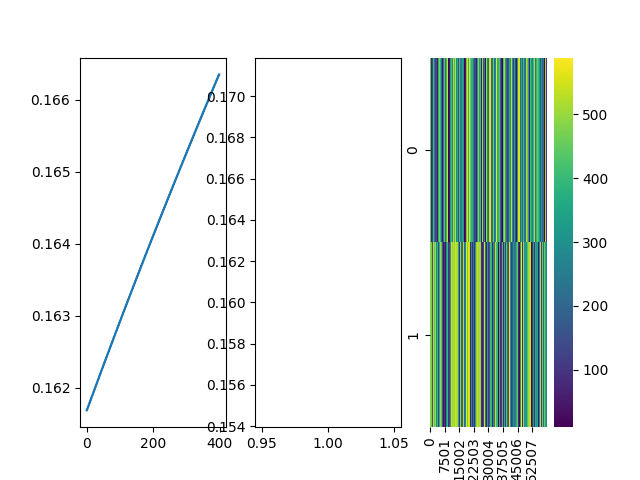
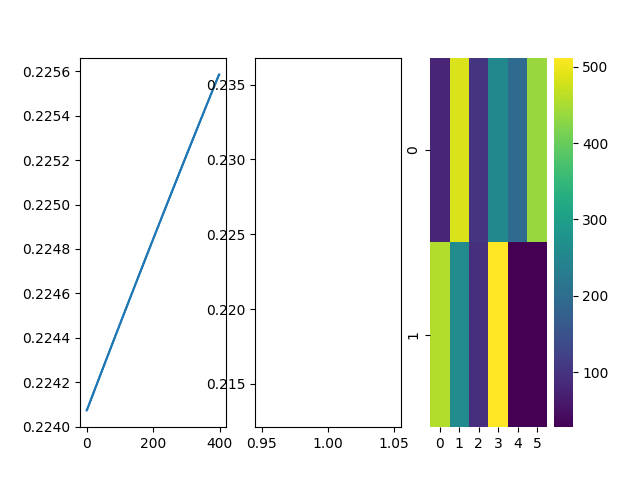
Static objects implemented, no collision yet and buggy drawing in animation, but showing as rotated. Will have to fix rotation seeming to be fixed at a certain value, illegal states being drawn and issues with sizes of statobjs. Animation also turns blank for certain seeds.

diff --git a/SNRLEnvironment/batching.py b/SNRLEnvironment/batching.py
@@ -15,28 +15,70 @@ def create_env(randint, objrad):
     #unfortunately can't parallelise adding elements to array (or even pytrees)
     return states #returned states is objnum + 2 * [x,y]
 @jax.jit
-def create_statobj(objsizes, rotations, key):
-    jax.random.uniform(key,minval=limits[0]+,maxval=40)
-    objsizes
+def create_centres(objsize, key, limits,statnum):
+    centres = jax.random.uniform(key,shape=(statnum,2),minval=limits[0]+objsize,maxval=limits[1]+objsize)
+    return centres
+    
+@jax.jit
+def return_vertices(centre,objsize,rotation):
+    jax.debug.print("{x} is objsize",x=objsize)
+    theta = rotation * (jnp.pi/180)
+    initvert = ((centre[0] - objsize[0], centre[1] - objsize[1]),
+                (centre[0] + objsize[0], centre[1] - objsize[1]),
+                (centre[0] - objsize[0], centre[1] + objsize[1]),
+                (centre[0] + objsize[0], centre[1] + objsize[1]))
+    #rotate shape, theta is angle in RADIANS
+    newvertices = []
+    dists = []
+    for vertex in initvert:
+        newx = (((centre[0] - vertex[0]) * jnp.cos(theta)) - ((centre[1] - vertex[1]) * jnp.sin(theta)))+ centre[0]
+        newy = (((centre[1] - vertex[1]) * jnp.sin(theta)) + ((centre[0] - vertex[0]) * jnp.cos(theta)) + centre[1])
+        a = centre[0]-vertex[0]
+        b = centre[1]-vertex[1]
+        dists.append([((centre[0] - vertex[0]) * jnp.cos(theta)),((centre[1] - vertex[1]) * jnp.sin(theta))])
+        #distance should be signed?? if it is it can transform vertex to rotate
+        newvertices.append([newx,newy])
+    vertices=jnp.array(newvertices)
+    print("my shape ", jnp.array(dists).shape)
+    #the y is the same for top left and top right, top left should decrease and top right should increase?
+    jax.debug.print("{x} is init, {y} is rotated", x= initvert, y=newvertices)
+    return vertices, jnp.array(dists)
 
 @jax.jit
-def return_states(randints,objrad, objsizes, rotations,centres, limits):
+def create_vertices(rotations, centres, objsizes):
+    #vertices are statobjnum in shape
+    print(centres.shape,objsizes.shape,rotations.shape)
+    vertices=[]
+    vertices, dists = jax.vmap(return_vertices)(centres,objsizes,rotations)#statobjnum shape
+    return vertices, dists
+@jax.jit
+def return_statobjs(vertices, centres):
+    return jax.vmap(lambda c, v :jnp.array([v[0],v[1],v[2],v[3],c]))(centres,vertices)
+@jax.jit
+def return_states(randints,objrad, objsizes, rotations, limits, centres):
     #rotation will act as a multiplier on the value of the vertices, they will increment in the y by the inverse of the x
-    centres = jax.vmap(create_statobj, in_axes=(0,0,None))(objsizes,rotations,key)
-    vertices = jax.vmap(create_vertices)(rotations,centres,objsizes)
-    envbatch = jax.vmap(create_env,in_axes=(0,None))(randints,objrad)
-    size
-    statobjs = #shape is (vertex1, vertex2, vertex3) if more vertices exist ALL objects must have same number of elements, but can be 0
-    return envbatch, statobjs
+    #centres should be envnum, objnum
+    vertices, dists = jax.vmap(create_vertices)(rotations,centres,objsizes)
+    envbatch = jnp.array(jax.vmap(create_env,in_axes=(0,None))(randints,objrad))
+    print(centres[0])
+    #need to map over centres as well
+
+    statobjs = jax.vmap(return_statobjs,in_axes=(0,0))(vertices, centres)#shape is (vertex1, vertex2, vertex3) if more vertices exist ALL objects must have same number of elements, but can be 0
+    
+    #statobjs = centres, vertices
+    return envbatch, statobjs, dists
 #this calls once, can't be jitted because arrays need static shape
 def create_envbatch(key, envnum, limits, objnum, objrad,staticnum):
+    maxstatsize = 70
     #create envnum partitions, these are arrays containing
     #find a way to do tehis for an indeterminate number of objects?
     initstateints = jax.random.uniform(key, shape=(envnum,objnum+2,2),minval=limits[0]+objrad,maxval=limits[1]-objrad)
     #generate random sizes, positions for static objects and a rotation for these shapes
-    rotations = jax.random.uniform(key,shape=(envnum,staticnum),minval=0,maxval=2*math.pi)
-    objsizes = jax.random.uniform(key, shape=(envnum,staticnum),minval=5,maxval=40)
-    envstates, statobjs = return_states(initstateints,objrad,objsizes,rotations)# [n*[objnum+2* [x,y] ] [*4[x,y],(centrepoint)[x,y]]
-    print("init agent state: ",envstates[0][1])
-    return jnp.reshape(envstates,(envnum,objnum+2,3))
+    centres = jax.random.uniform(key,shape=(envnum,staticnum,2),minval=limits[0]+maxstatsize,maxval=limits[1]+maxstatsize)
+    rotations = jax.random.uniform(key,shape=(envnum,staticnum),minval=0,maxval=360)
+    objsizes = jax.random.uniform(key, shape=(envnum,staticnum,2),minval=5,maxval=40)
+    
+    envstates, statobjs, dists = return_states(initstateints,objrad,objsizes,rotations,limits,centres)# [n*[objnum+2* [x,y] ] [*4[x,y],(centrepoint)[x,y]]
+    print("init agent state: ",envstates[0][1]) 
+    return jnp.reshape(envstates,(envnum,objnum+2,3)), statobjs,rotations, dists
 key = jax.random.key(1204)

diff --git a/SNRLEnvironment/training.py b/SNRLEnvironment/training.py
@@ -25,7 +25,7 @@ devices = jax.devices()
 mesh = jax.make_mesh((len(devices),),('databatch'))
 sharding = jax.sharding.NamedSharding(mesh, P('databatch'))
 
-envnum = 60000 #number of environments
+envnum = 6 #number of environments
 episodelength = 200
 objnum = 18 #num of objects in environment
 rad = 10
@@ -48,8 +48,8 @@ def runstep(currentstates,actions):
     #extract first env state for image
     return currentstates, collision
 @jax.jit
-def createimages(state, window, collision):
-    frame = drawframe(state, window, collision)
+def createimages(state, window, collision, statobjs):
+    frame = drawframe(state, window, collision, statobjs)
     return frame
 @jax.jit
 def drawframes(envstates,window):
@@ -70,9 +70,12 @@ collision = 0
 #fig1 = plt.figure()
 while j < episodenum:
     i = 0
-    seed = 6870 * (j + 1)
+    seed = 800 * (j + 1)
     key = jax.random.key(seed)
-    envstates = create_envbatch(key, envnum,limits,objnum,10)
+    envstates, statobjs, rotations, dists = create_envbatch(key, envnum,limits,objnum,10,3)
+    print("Shape at batching is: ", jnp.array(statobjs).shape,statobjs[0])
+    print("rotation is ", rotations[0])
+    print("dists: ", dists)
     splitstates = jnp.split(envstates, len(devices))
     devind = 0
     for batch in splitstates:
@@ -99,7 +102,8 @@ while j < episodenum:
         if draw and j == episodenum -1:
             #frames = drawframes(envstates,window)
             firstenvcol.append(collision[0])
-            env1frame = createimages(envstates[0],window,collision[0])
+            print("shape is ",jnp.array(statobjs).shape)# should be 3,2 but is 30
+            env1frame = createimages(envstates[0],window,collision[0],statobjs[0])
             env1frames.append(env1frame)
         if i % 50 == 0:
             loss, actions = train_step(agent.policy,envstates,optimizer,collision)

diff --git a/SNRLEnvironment/renderer.py b/SNRLEnvironment/renderer.py
@@ -3,6 +3,7 @@ import matplotlib
 import matplotlib.pyplot as plt
 import jax.numpy as jnp
 import matplotlib.animation as animation
+import jax
 
 
 
@@ -22,9 +23,23 @@ def drawshape(window,state,colour):
     radius = state[2].astype(int)
     window = tc.draw_circle(x,y,radius,colour,window)
     return window
+def drawrect(window,state):
+    print(state.shape)
+    vert1 = state[0].astype(int)
+    vert2 = state[1].astype(int)
+    vert3 = state[2].astype(int)
+    vert4 = state[3].astype(int)
+    print(vert1)
+    yellow = jnp.array([120,10,0])
+    window = tc.draw_line(vert1[0],vert1[1],vert2[0],vert2[1],radius=1,t=window,color=yellow)
+    window = tc.draw_line(vert3[0],vert3[1],vert4[0],vert4[1],radius=1,t=window,color=yellow)
+    window = tc.draw_line(vert1[0],vert1[1],vert3[0],vert3[1],radius=1,t=window,color=yellow)
+    window = tc.draw_line(vert2[0],vert2[1],vert4[0],vert4[1],radius=1,t=window,color=yellow)
+
+    return window
 def createplot():
     fig, ax = plt.subplots()
-def drawframe(states, window,collision):
+def drawframe(states, window,collision,staticstates):
     i=0
     for state in states:
         if i == 0:
@@ -37,6 +52,10 @@ def drawframe(states, window,collision):
             colour = jnp.array([0.8,0.1,0.2])
         window = drawshape(window,state,colour)
         i+=1
+    for statstate in staticstates:
+        print("stat state is: ",statstate)
+        window  = drawrect(window,statstate)
+    
     return window
     #plt.tight_layout()
     

diff --git a/SNRLEnvironment/enjoy_sbx.py b/SNRLEnvironment/enjoy_sbx.py
@@ -1,0 +1,20 @@
+import rl_zoo3
+import rl_zoo3.enjoy
+from rl_zoo3.enjoy import enjoy
+from sbx import DDPG, DQN, PPO, SAC, TD3, TQC, CrossQ
+
+rl_zoo3.ALGOS["ddpg"] = DDPG
+rl_zoo3.ALGOS["dqn"] = DQN
+# See SBX readme to use DroQ configuration
+# rl_zoo3.ALGOS["droq"] = DroQ
+rl_zoo3.ALGOS["sac"] = SAC
+rl_zoo3.ALGOS["ppo"] = PPO
+rl_zoo3.ALGOS["td3"] = TD3
+rl_zoo3.ALGOS["tqc"] = TQC
+rl_zoo3.ALGOS["crossq"] = CrossQ
+rl_zoo3.enjoy.ALGOS = rl_zoo3.ALGOS
+rl_zoo3.exp_manager.ALGOS = rl_zoo3.ALGOS
+
+
+if __name__ == "__main__":
+    enjoy()

diff --git a/SNRLEnvironment/Env1.py b/SNRLEnvironment/Env1.py
@@ -41,7 +41,11 @@ def sfm(objstate, objstates, counter, key):
     objtrans = objmove - jnp.sum(distances)
     #see whether agent stops to "talk" to other agent, or changes goal.
 
-    return key1
+    return key1, objtrans
+@jax.jit
+def checkillegalstate(state):#checks if point is in static object collision
+    
+    pass
 @jax.jit
 def detectdistances(objstate, otherobjs):
     dists = jax.vmap(lambda obj, othobj : othobj - obj, in_axes=(None,0))(objstate, otherobjs)
